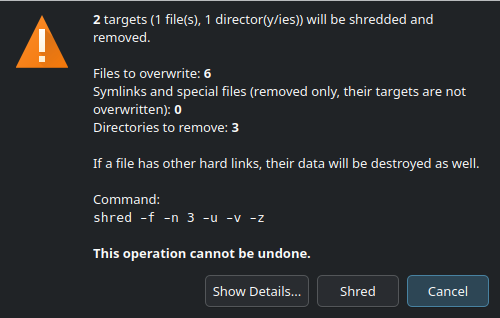
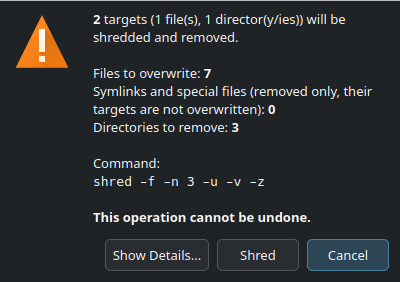
Screenshots: the built-in file dialog, the speed graph; rendered offscreen
make-screenshots.sh now renders the real application offscreen in the
Breeze style, so no windows or Plasma notifications appear on the screen,
with English number and date formats and UTC times whatever the machine.
The demo data holds larger files (a few seconds of work, so the speed
graph shows something) and a directory with names that are not valid
UTF-8, which the new screenshot of the built-in dialog shows.

diff --git a/tools/screenshots/screenshot.cpp b/tools/screenshots/screenshot.cpp
@@ -2,14 +2,18 @@
 // function drives the window with timers and saves QWidget::grab() of single widgets, so nothing
 // else on the screen ends up in the images. Started by tools/make-screenshots.sh.
 
+#include "filedialog.h"
+#include "localpath.h"
 #include "mainwindow.h"
 
 #include <QApplication>
+#include <QListWidget>
 #include <QMenuBar>
 #include <QMessageBox>
 #include <QPlainTextEdit>
 #include <QPushButton>
 #include <QTimer>
+#include <QToolButton>
 
 #include <cstdio>
 #include <functional>
@@ -80,6 +84,49 @@ void catchMessageBox(const QString &name, QMessageBox::ButtonRole role, std::fun
     });
 }
 
+// The built-in file dialog, opened from the menu next to "Add directory...", in the demo directory with
+// names that are not valid UTF-8 (SCREENSHOT_NAMES_DIR). The devices of the machine are left out.
+void saveFileDialog(MainWindow *w, const QString &name, std::function<void()> then)
+{
+    QToolButton *menuButton = nullptr;
+    for (QToolButton *b : w->findChildren<QToolButton *>()) {
+        if (b->menu() && b->text() == QStringLiteral("Built-in file dialog"))
+            menuButton = b;
+    }
+    if (!menuButton) {
+        std::printf("FAILED %s: no menu button\n", qPrintable(name));
+        then();
+        return;
+    }
+    after(800, [name] {
+        for (QWidget *widget : QApplication::topLevelWidgets()) {
+            auto *dialog = qobject_cast<BuiltInFileDialog *>(widget);
+            if (!dialog || !dialog->isVisible())
+                continue;
+            auto *places = dialog->findChild<QListWidget *>();
+            for (int i = 0; i < places->count(); ++i) {
+                if (places->item(i)->text() == QStringLiteral("Devices")) {
+                    while (places->count() > i)
+                        delete places->takeItem(i);
+                    break;
+                }
+            }
+            dialog->setDirectory(LocalPath::decode(qgetenv("SCREENSHOT_NAMES_DIR")));
+            dialog->selectNames({LocalPath::decode("caf\xe9.jpg")});
+            after(300, [dialog, name] {
+                save(dialog, name);
+                dialog->reject();
+            });
+            return;
+        }
+        std::printf("FAILED %s: no dialog\n", qPrintable(name));
+    });
+    after(0, [menuButton, then] {
+        menuButton->menu()->actions().at(0)->trigger(); // returns when the dialog is closed
+        then();
+    });
+}
+
 void run()
 {
     MainWindow *w = window();
@@ -103,7 +150,8 @@ void run()
             after(300, [w, cancel] {
                 whenFinished(cancel, [w] {
                     save(w, QStringLiteral("shred-gui-finished.png"));
-                    QApplication::quit();
+                    // 4. The built-in file dialog.
+                    saveFileDialog(w, QStringLiteral("shred-gui-file-dialog.png"), [] { QApplication::quit(); });
                 });
             });
         });

diff --git a/README.md b/README.md
@@ -109,9 +109,9 @@ xargs -d '\n' rm -v < build/install_manifest.txt
 ```
 
 Screenshots for this README (`docs/screenshots/shred-gui-*.png`) are generated by running the real
-application with demo files in `/tmp/shred-gui-demo` (they are really shredded) and a temporary
-configuration (the windows appear on the screen for a few seconds); the Dolphin menu screenshot is
-taken by hand:
+application offscreen in the Breeze style (nothing appears on the screen) with demo files in
+`/tmp/shred-gui-demo` (they are really shredded) and a temporary configuration; the Dolphin menu and
+the notification screenshots are taken by hand:
 
 ```bash
 tools/make-screenshots.sh
@@ -205,7 +205,7 @@ ready-made profiles (quick, paranoid, overwrite only). Options imported with
 Removing a directory requires removing its files — if "Do not remove" is selected, the
 application offers to enable `-u`.
 
-![The log after shredding a directory and a file](docs/screenshots/shred-gui-finished.png)
+![The log after shredding a directory and a file, the speed graph behind the progress bar](docs/screenshots/shred-gui-finished.png)
 
 ## File names that are not valid UTF-8
 
@@ -222,6 +222,8 @@ apart names like `caf\xe9` and `caf\xe8`. *Always use the built-in dialog* in th
 the dialog of *Add files…* and *Add directory…*; its *System dialog…*
 button opens the system dialog for one time.
 
+![The built-in file dialog with names that are not valid UTF-8](docs/screenshots/shred-gui-file-dialog.png)
+
 Dolphin converts such names too (KIO replaces the bytes): what it passes from the context menu,
 drag & drop and *Copy* holds `�` (U+FFFD) instead, e.g. `caf%EF%BF%BD.jpg` for both `caf\xe9.jpg` and
 `caf\xe8.jpg` — a name that does not exist. Choose such files in the built-in dialog. A directory with
@@ -231,7 +233,8 @@ a plain name can be added from Dolphin as usual, whatever names it contains.
 
 Behind the progress bar of the window there is a graph of the speed of writing (measured every 0.5 s,
 see below). The x axis is the time since the start (at least 10 seconds while running, the whole job
-after it ends), the top of the graph is the speed in its top left corner. The graph of the last job stays until the next one starts.
+after it ends), the top of the graph is the speed in its top left corner. The graph of the last job
+stays until the next one starts (see the screenshot of the log after shredding above).
 
 ## Progress outside the window
 
